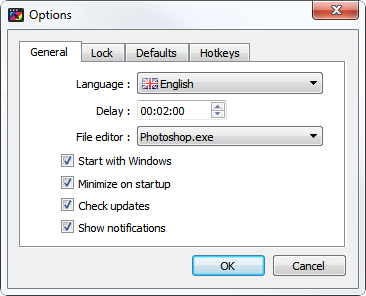
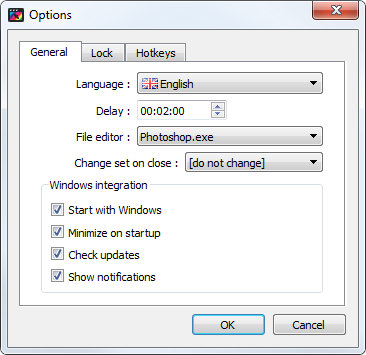
Release 2.3.2

Changed region(s): [[0.0, 0.0, 1.0, 1.0], [0.0, 0.3041, 0.0301, 0.4561]]

diff --git a/index.html b/index.html
@@ -265,7 +265,6 @@
 
                     <p>In <b><i class="umwp-config"></i> Configuration &#8227; <i class="umwp-settings"></i> Options</b>
                         menu you can configure the update delay, the shortcuts and some other options.</p>
-                    <p>The <b>Defaults</b> tab is used to define default type, style and mode for new sets.</p>
                     <p>Additionally you can <b><i class="umwp-export"></i> export</b> and <b><i class="umwp-import"></i>
                         import</b> the configuration as a XML file, usefull if you plan the reset your system !</p>
 
@@ -364,7 +363,7 @@
                         that means they can cause interferences with other softwares, so make sure the shortcuts you
                         choose are not already used.</p>
 
-                    <img src="assets/img/screenshots/options4.png" class="img-fluid d-block mx-auto">
+                    <img src="assets/img/screenshots/options3.png" class="img-fluid d-block mx-auto">
 
                     <hr>
 
@@ -492,7 +491,6 @@
                 <ul>
                     <li><a href="https://www.creative-tim.com">Design</a></li>
                     <li><a href="https://github.com/mistic100/UMWP-Autochanger/blob/master/LICENSE">License</a></li>
-                    <li><a href="https://github.com/mistic100/UMWP-Autochanger/tree/master/src">OpenSource</a></li>
                 </ul>
             </nav>
             <div class="credits ml-auto">

diff --git a/changelogs/2.3.2.html b/changelogs/2.3.2.html
@@ -1,0 +1,9 @@
+<dl>
+    <dt>Version 2.3.2 <small>January 6th 2019</small></dt>
+    <dd>
+        <ul>
+            <li>Add "Change set on close" option</li>
+            <li>Remove "Default" options</li>
+        </ul>
+    </dd>
+</dl>

diff --git a/download.php b/download.php
@@ -19,6 +19,7 @@ $versions = array(
     '2.2' => 'dist/UMWP_Autochanger_2.2.zip',
     '2.3.0' => 'dist/UMWP_Autochanger_2.3.0.zip',
     '2.3.1' => 'dist/UMWP_Autochanger_2.3.1.zip',
+    '2.3.2' => 'dist/UMWP_Autochanger_2.3.2.zip',
     ),
   
   'exe' => array(
@@ -32,6 +33,7 @@ $versions = array(
     '2.2' => 'dist/UMWP_Autochanger_2.2_Setup.exe',
     '2.3.0' => 'dist/UMWP_Autochanger_2.3.0_Setup.exe',
     '2.3.1' => 'dist/UMWP_Autochanger_2.3.1_Setup.exe',
+    '2.3.2' => 'dist/UMWP_Autochanger_2.3.2_Setup.exe',
     ),
   );
   
